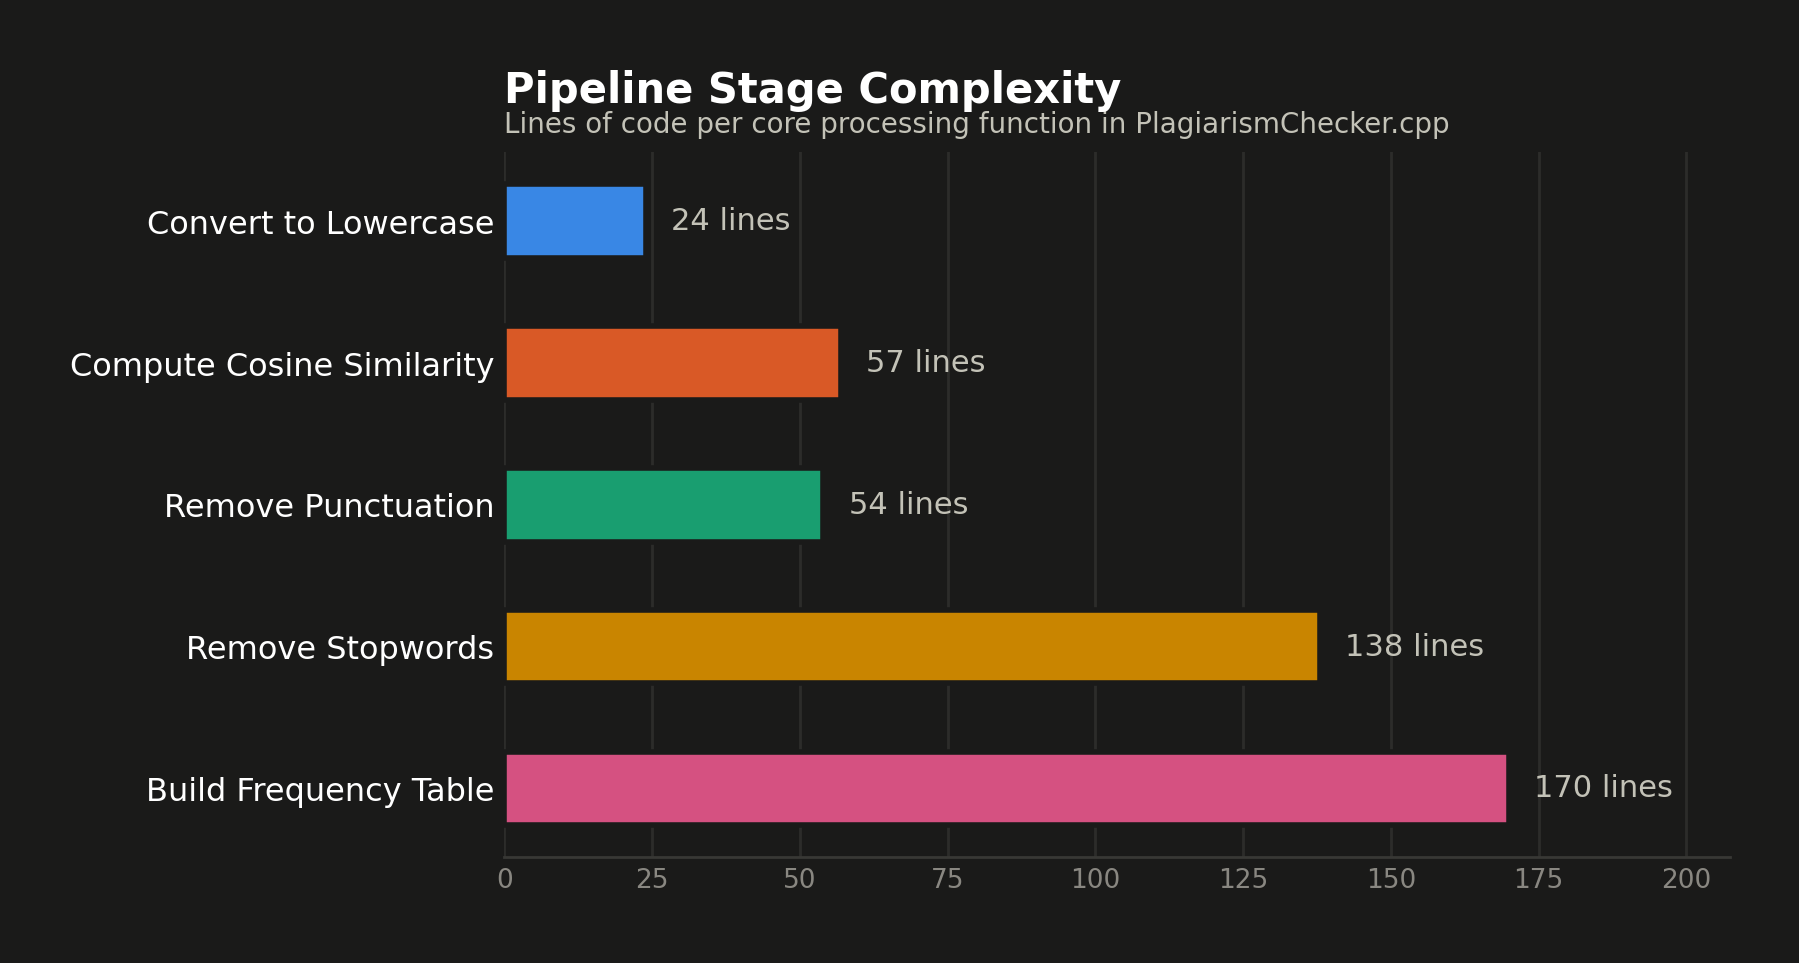
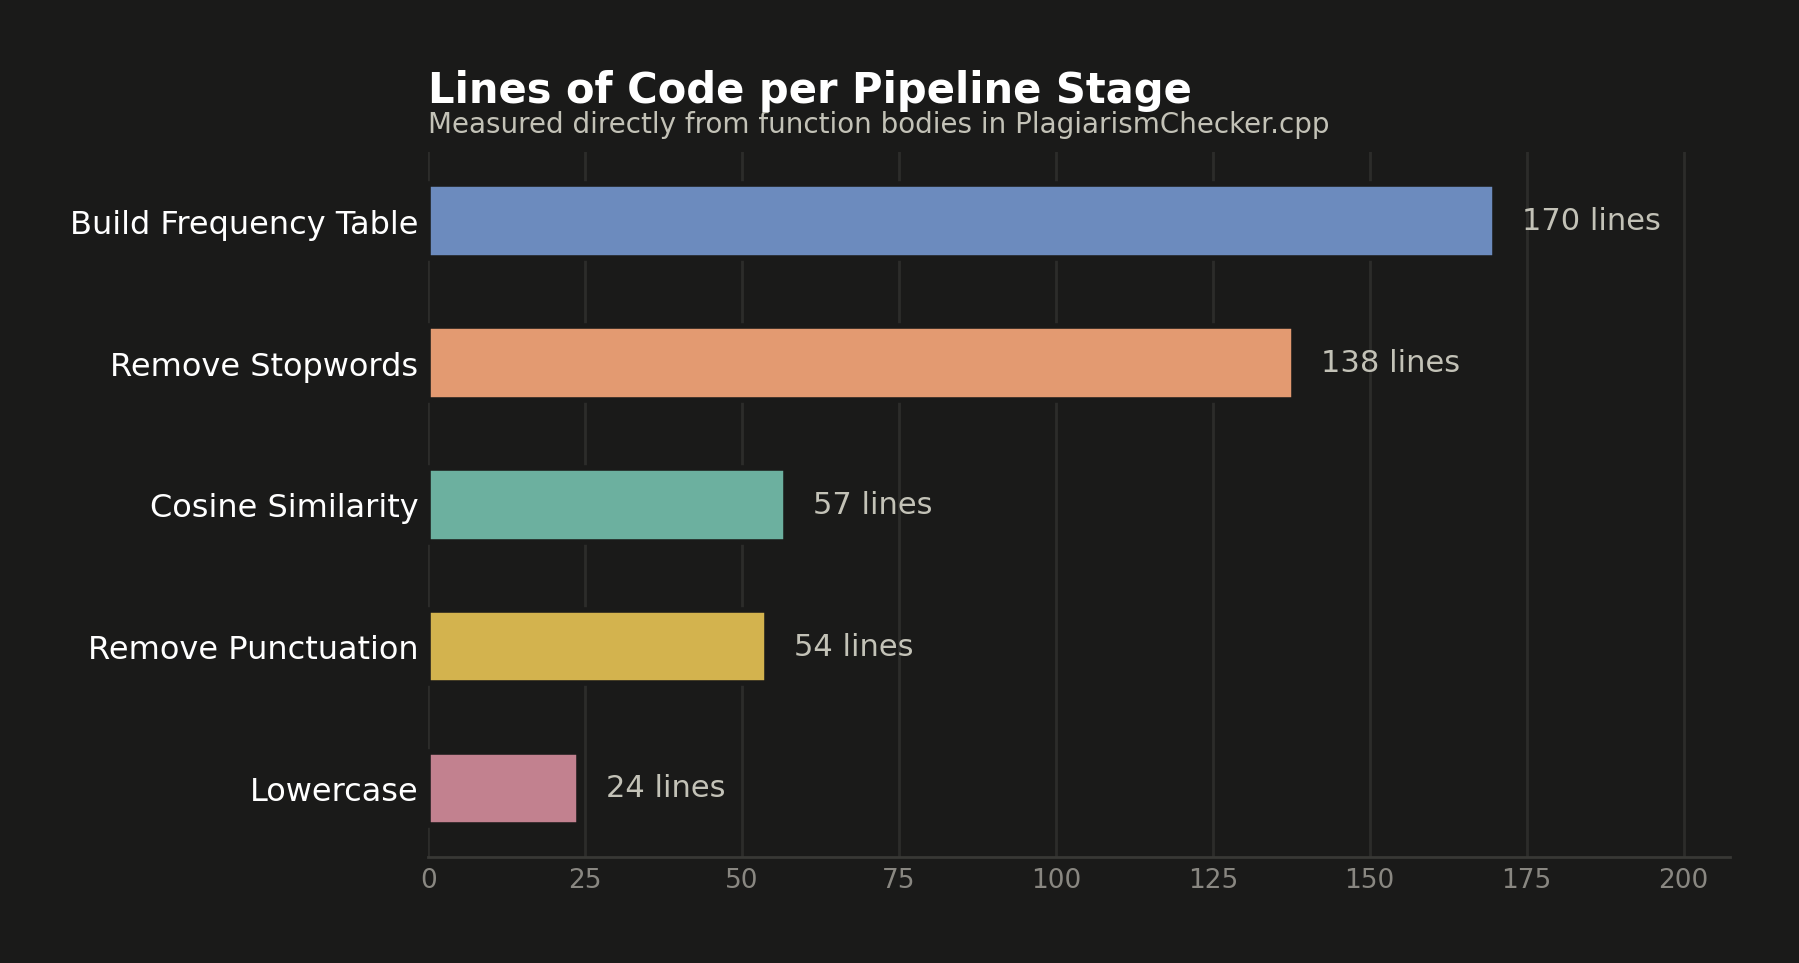
Switch to a more muted, professional color palette

diff --git a/README.md b/README.md
@@ -3,10 +3,10 @@
 A C++ console tool that detects likely plagiarism between text documents by cleaning their text and comparing word-frequency vectors with cosine similarity.
 
 ![C++](https://img.shields.io/badge/Language-C%2B%2B-00599C?style=flat-square&logo=cplusplus&logoColor=white)
-![Data Structures](https://img.shields.io/badge/Topic-Data%20Structures-2a78d6?style=flat-square)
-![Algorithms](https://img.shields.io/badge/Topic-Algorithms-eda100?style=flat-square)
-![Arrays & Pointers](https://img.shields.io/badge/Focus-Arrays%20%26%20Pointers-1baf7a?style=flat-square)
-![Cosine Similarity](https://img.shields.io/badge/Technique-Cosine%20Similarity-eb6834?style=flat-square)
+![Data Structures](https://img.shields.io/badge/Topic-Data%20Structures-4C72B0?style=flat-square)
+![Algorithms](https://img.shields.io/badge/Topic-Algorithms-C9A227?style=flat-square)
+![Arrays & Pointers](https://img.shields.io/badge/Focus-Arrays%20%26%20Pointers-4C9F8A?style=flat-square)
+![Cosine Similarity](https://img.shields.io/badge/Technique-Cosine%20Similarity-DD8452?style=flat-square)
 
 ## Context
 
@@ -40,11 +40,11 @@ flowchart TD
     E --> F[Compute Pairwise Cosine Similarity]
     F --> G[Report Similarity Scores]
 
-    classDef stage1 fill:#2a78d6,stroke:#184f95,stroke-width:2px,color:#ffffff
-    classDef stage2 fill:#eda100,stroke:#8a6200,stroke-width:2px,color:#ffffff
-    classDef stage3 fill:#1baf7a,stroke:#0f7a52,stroke-width:2px,color:#ffffff
-    classDef stage4 fill:#eb6834,stroke:#a5431a,stroke-width:2px,color:#ffffff
-    classDef stage5 fill:#4a3aa7,stroke:#2f2470,stroke-width:2px,color:#ffffff
+    classDef stage1 fill:#4C72B0,stroke:#2E4670,stroke-width:2px,color:#ffffff
+    classDef stage2 fill:#C9A227,stroke:#7A6418,stroke-width:2px,color:#ffffff
+    classDef stage3 fill:#4C9F8A,stroke:#2F6455,stroke-width:2px,color:#ffffff
+    classDef stage4 fill:#DD8452,stroke:#854F31,stroke-width:2px,color:#ffffff
+    classDef stage5 fill:#8172B2,stroke:#574F7A,stroke-width:2px,color:#ffffff
 
     class A stage1
     class B,C stage2
